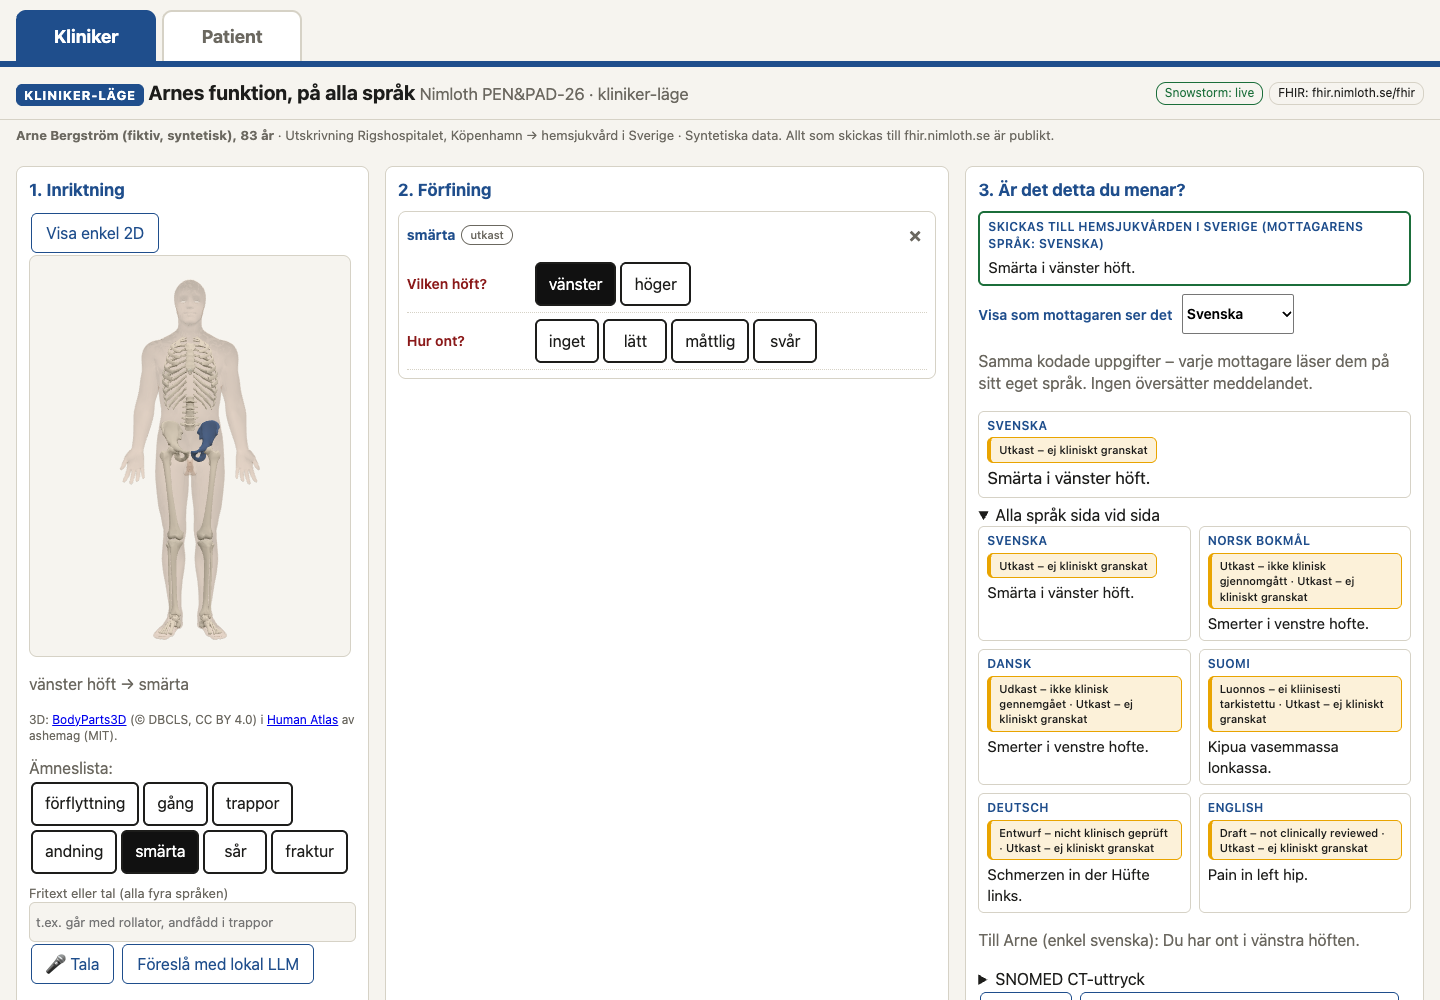
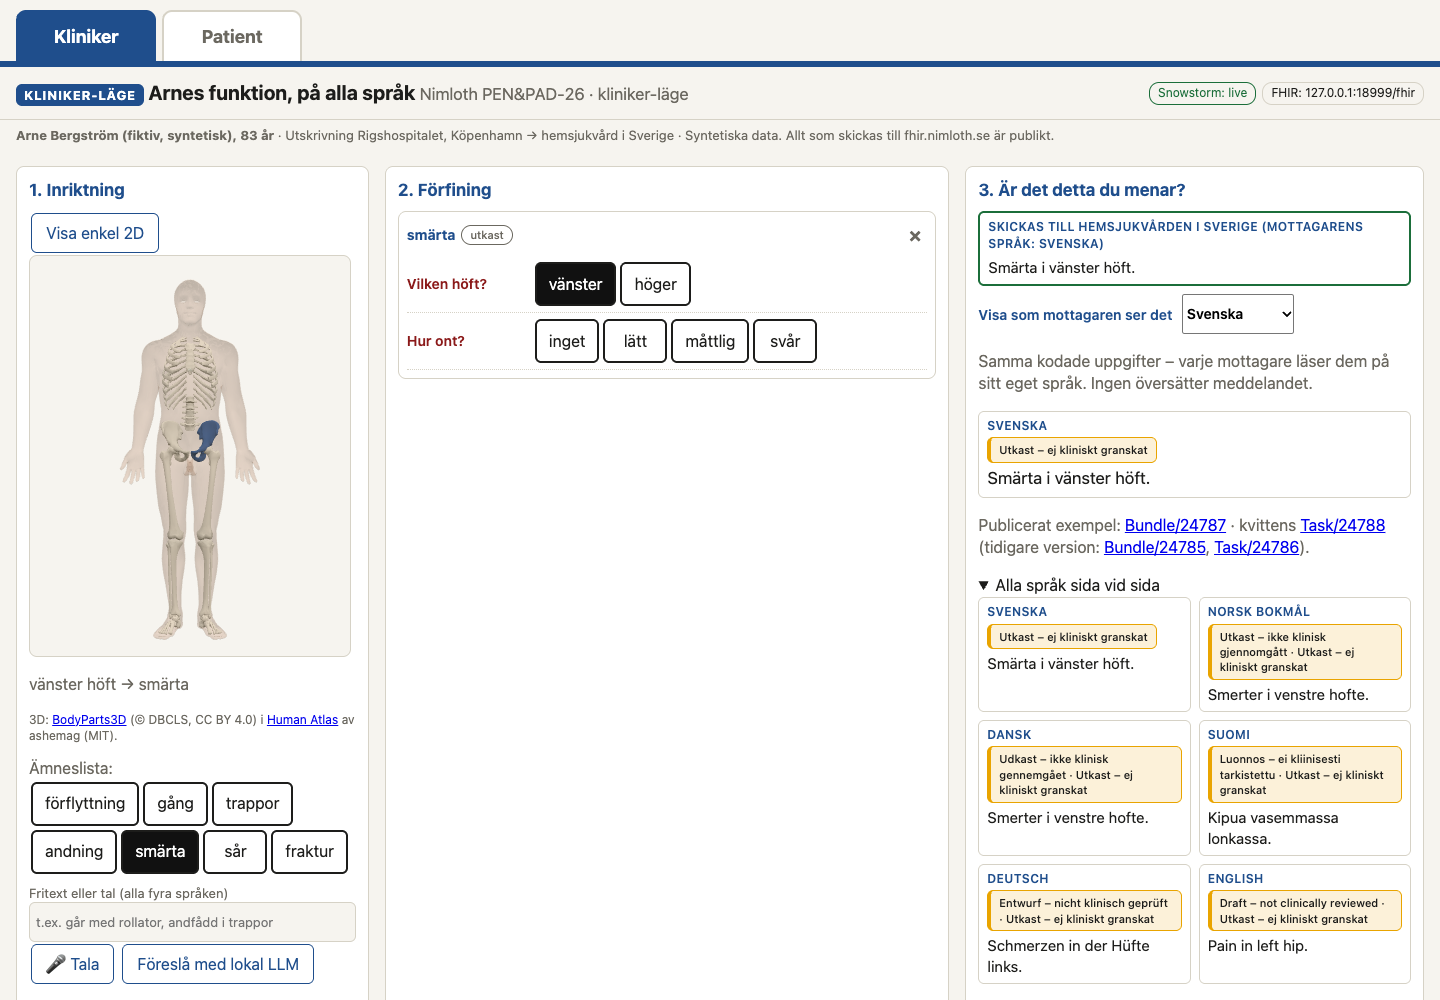
Nimloth PEN&PAD-26 v0.5: new EPS Bundle/24787 + Task/24788, finding on the EPS functional status section, 2D default for clinicians, actor test, screenshots

Changed region(s): [[0.6562, 0.496, 1.0, 1.0], [0.875, 0.062, 0.9688, 0.093], [0.8438, 0.093, 0.875, 0.124]]

diff --git a/challenge/nimloth-penpad26/readme.md b/challenge/nimloth-penpad26/readme.md
@@ -1,22 +1,33 @@
 # Arne's function, in any language — PEN&PAD on the Arne scenario
-Nordic Hackathon 2026, PEN&PAD-26 bonus track · Nimloth (Anders Carlius)
+Nordic Hackathon 2026, PEN&PAD-26 bonus track · Nimloth
 
-**Live demo:** https://penpad.nimloth.se (clinician mode) · https://penpad.nimloth.se/patient/ (patient mode). The demo is open until 2026-11-26 (rate-limited); after that it is behind Cloudflare Access again and reviewers are invited by e-mail on request.
-**Contact:** TODO(Anders): GitHub handle or contact page
+**Live demo:** https://penpad.nimloth.se (clinician mode) · https://penpad.nimloth.se/patient/ (patient mode). Open until 2026-11-26 (rate-limited); after that it is behind Cloudflare Access again and reviewers are invited by e-mail on request.
+**Contact:** Anders Carlius, Northfactor AB — [e-post fylls i av Anders]
 
 ## The gap we aimed at
 Arne (83, fictional) breaks his hip on the stairs in Copenhagen and is discharged from a Danish hospital to home care in Sweden. The organisers' medical comments name three gaps: **functional status is missing and nobody notices**, **his son ends up as the interpreter**, and **nobody confirms the hand-over**.
 
 We used the same coded record for both sides of the border:
-- **Clinician mode** (discharge, Rigshospitalet) follows the track's three steps. *Orientation:* body map (hip, leg, chest), topic list (transfer, walking, stairs, breathing, pain, wound), or free text / speech. *Refinement:* only follow-ups that make sense, as short questions (fracture → left or right? operated? · walking → aid? how far? · breathing → breathless at rest, walking or stairs?). *Confirmation:* "Is this what you meant?" as a live sentence.
-- **Patient mode** (at home in Sweden): plain Swedish and big buttons, plus a **3D body** to point at (where it hurts, where the leg ulcer is). Both modes open on the 3D body; Anders changed this after trying the demo, because the 2D figure felt too crude. For speed, a simple 2D map is one click away ("Visa enkel 2D"), and the topic list stays next to it, so a clinician never has to rotate a model to reach the right form (Rector: "exhaustive is the enemy of the useful"). Both modes use the same component, geometry, FMA→SNOMED table and refinement engine. The body turns slowly (one revolution per ~60 s), stops while the user points at or drags it, resumes after 5 s, and does not move at all under `prefers-reduced-motion`. A list next to the 3D view does the same thing, and replaces it when WebGL or the geometry is missing. Arne answers himself, or his son does it for him. The result is saved as a **draft marked patient-reported**, with "reported by: patient / relative". The home-care nurse opens the draft in clinician mode, refines it and confirms it. We show provenance; we do not try to solve proxy consent.
+- **Clinician mode** (discharge, Rigshospitalet) follows the track's three steps. *Orientation:* 2D body map (hip, leg, chest), topic list (transfer, walking, stairs, breathing, pain, wound), or free text / speech. *Refinement:* only follow-ups that make sense, as short questions (fracture → left or right? operated? · walking → aid? how far? · breathing → breathless at rest, walking or stairs?). *Confirmation:* "Is this what you meant?" as a live sentence.
+- **Patient mode** (at home in Sweden): plain Swedish, big buttons and a **3D body** to point at (where it hurts, where the leg ulcer is), with the same choices as a list next to it. Arne answers himself, or his son does it for him. The result is saved as a **draft marked patient-reported**, with "reported by: patient / relative". The home-care nurse opens the draft in clinician mode, refines it and confirms it. We show provenance; we do not try to solve proxy consent.
+
+## Design choice: 3D only by default for the patient
+3D is the default only in patient mode. For clinicians, a list/2D map is faster — 'exhaustive is the enemy of the useful' (Rector, Part 2). We'd like to test this with the actor test.
+
+Clinicians can switch on the same 3D view ("Visa i 3D"; the choice is remembered in the browser). Both modes use the same component, geometry, FMA→SNOMED table and refinement engine. The body turns slowly (one revolution per ~60 s), stops while the user points at or drags it, and does not move at all under `prefers-reduced-motion`. If WebGL or the geometry is missing, the list/2D map takes over.
 
 ## Three things worth looking at
 1. **The track's three steps in both modes**: orientation, refinement and confirmation.
 2. **The sentence generator removes the need for an interpreting son.** One coded entry is rendered deterministically in **Swedish, Norwegian (bokmål), Danish, Finnish, German and English**, plus plain Swedish for Arne. The templates are hand-written and visible (`generator/templates/{sv,sv-enkel,nb,da,fi,de,en}.yaml`). No LLM generates text. A concept without a template is shown as SNOMED term + code + "no translation"; it never fails silently.
    - sv: *Opererad fraktur på vänster lårbenshals. Går med rollator inomhus cirka 10 meter. Klarar inte trappor. Andfådd vid gång.*
    - da: *Opereret fraktur af venstre lårbenshals. Går med rollator indendørs ca. 10 meter. Kan ikke gå på trapper. Åndenød ved gang.*
-3. **Functional status lands in an EPS document, with the validation result.** The functional-status findings become `Condition`s in the EPS section *Functional status* (LOINC 47420-5, read from `composition-eu-eps` 1.0.0-ballot, which allows Condition / ClinicalImpression / DocumentReference there). They are added to a copy of the hackathon's Arne EPS bundle; the original is never overwritten. The copy is published as [`Bundle/24785`](https://fhir.nimloth.se/fhir/Bundle/24785) (identifier `nimloth-eps-arne-penpad`) and validates against `bundle-eu-eps` 1.0.0-ballot (matchbox) with **0 errors** (the original fixture has 0 errors / 118 warnings; ours 127, the extra ones are an unavailable eHDSI value set). A **receipt button** ("Mottaget och läst") writes a FHIR `Task` with status *completed* ([`Task/24786`](https://fhir.nimloth.se/fhir/Task/24786), focus `Bundle/24785`): a sent document is not a confirmed hand-over.
+3. **Functional status lands in an EPS document, with the validation result.** The findings become `Condition`s in the EPS section *Functional status* (LOINC 47420-5), added to a copy of the hackathon's Arne EPS bundle; the original is never overwritten.
+   - Published: [`Bundle/24787`](https://fhir.nimloth.se/fhir/Bundle/24787) (identifier `nimloth-eps-arne-penpad`, 9 sections; the Composition narrative is generated from `Composition.section`, so no section can be missing from it). [`Bundle/24785`](https://fhir.nimloth.se/fhir/Bundle/24785) is an earlier version whose Composition narrative still lacked the new section.
+   - Validation against `bundle-eu-eps` 1.0.0-ballot with the Swedish base IG (matchbox): **0 errors**, 127 warnings (the original fixture: 0 errors, 118 warnings; the extra warnings are an eHDSI value set the validator cannot resolve). `$validate` on fhir.nimloth.se, which has neither the EPS nor the Swedish base IG loaded, reports 4 errors — the same 4 "profile not found" errors (SEBasePatient, SEBaseOrganization, SEBasePractitioner, SEBasePractitionerRole) that the unchanged original gets there.
+   - A **receipt button** ("Mottaget och läst") writes a FHIR `Task` with status *completed*: [`Task/24788`](https://fhir.nimloth.se/fhir/Task/24788), focus `Bundle/24787` ([`Task/24786`](https://fhir.nimloth.se/fhir/Task/24786) belongs to the earlier version). A sent document is not a confirmed hand-over.
+
+## Finding: the gap is also in the standard
+EPS 1.0.0-ballot lets the *Functional status* section reference only `Condition`, `ClinicalImpression` and `DocumentReference` (`Composition.section:sectionFunctionalStatus.entry`, targetProfile; named slices `disability` → condition-eu-core and `functionalAssessment` → ClinicalImpression). An `Observation` — for example a scored assessment such as Barthel, or "walks 10 m with a rollator" as a measurement — cannot be placed there. We therefore sent Arne's functional status as Conditions. Exact excerpt and source: [eps-functional-status-finding.md](eps-functional-status-finding.md).
 
 ## Send codes, render locally
 Sending and viewing are two different things. What goes to Swedish home care is the **coded record** (openEHR composition, FHIR resources, the receipt) plus one narrative in the **receiver's** language, Swedish. The receiver decides the language; nobody picks it from a menu. The drop-down **"Visa som mottagaren ser det"** only shows the same coded record rendered in another language, so a Danish, Norwegian, Finnish or German reader sees what *they* would read. Switching it sends nothing and changes nothing (tested: `test/i18n.mjs`). Nobody translates the message; each receiver reads the codes in their own language.
@@ -29,38 +40,44 @@ Finnish needs case endings that depend on the body part ("vasemmassa lonkassa", 
 | Rector (interviews part 2 and 4) | What we built for Arne |
 |---|---|
 | Separate the concept model, the information model and inference; coordinate, don't merge | SNOMED CT (Snowstorm, Swedish edition) sanctions what can be said; openEHR (EHRbase, template `nimloth_penpad26_symptom.v0`) stores it; FHIR R4 / EPS carries it across the border |
-| The concept model *sanctions*: query it, don't invent concepts | Every option is checked at runtime: ECL membership, or the MRCM attribute range (laterality, severity). Unsanctioned options are dropped, or shown dotted when Snowstorm is down |
+| The concept model *sanctions*: query it, don't invent concepts | Every option is checked at runtime: ECL membership, or the MRCM attribute range (laterality, severity). Unsanctioned options are dropped, or shown dotted when Snowstorm is down. All 43 codes used are active International concepts (audited) |
 | Assemble forms from fragments hung on the concept model | `model/arne-scenario.json` holds the fragments (topics, questions, candidate codes); no form rows are hard-coded in the UI |
 | Big toggle buttons, a visible "more", no death by a thousand clicks | Big toggles, at most three short questions per topic, one click to undo |
-| "Is this what you meant?": show back a processed result, easy to correct | Live sentence (six languages + plain Swedish) and SNOMED CT expression on every click; optional local LLM (on our own box, never the cloud) may only pick among offered values (JSON schema) and its picks are marked until the clinician accepts them |
+| "Is this what you meant?": show back a processed result, easy to correct | Live sentence (six languages + plain Swedish) and SNOMED CT expression on every click; for free text, an optional local LLM (on our own box, never the cloud) may only pick among offered values (JSON schema), and its picks are marked until the clinician accepts them |
 | Different language for clinicians and patients | `sv` vs `sv-enkel` from the same record; patient mode in plain Swedish |
 | Be tolerant of broken parts | Snowstorm down → offline snapshot or unsanctioned + warning; EHRbase down → queued in the browser, "ej sparad"; FHIR down → resource shown, "ej skickad". Tested by pointing each at a wrong URL |
-| Show that options exist; let the user turn away at any time | Patient points on a 3D body (BodyParts3D meshes); a hand-written FMA→SNOMED table (`mapping/fma-to-snomed-arne.yaml`, codes confirmed in Snowstorm, laterality as its own field) turns the tap into a site; unknown meshes resolve to the nearest listed region or "unknown place – choose in the list", never a guessed code |
+| Show that options exist; let the user turn away at any time | The patient points on a 3D body (BodyParts3D meshes); a hand-written FMA→SNOMED table (laterality as its own field) turns the tap into a site; unknown meshes resolve to the nearest listed region or "unknown place – choose in the list", never a guessed code |
 | Cheap cardboard prototypes first | The engine was first built against recorded Snowstorm fixtures (the Clinergy thumb-pain walkthrough is kept as a regression test) |
 
 ## The actor test
-TODO(Anders): keep the actor-test section from the v0.1 draft (Rector, part 2: was the clinician attending to the patient or to the computer?).
+Rector's test (Part 2) is simple: put an actor in the patient's chair and afterwards ask whether the doctor was attending to *them* or to the computer. We would like to run it on Arne's discharge conversation twice, with the same actor and the same clinician:
+1. **List**: the clinician uses the topic list and short questions (2D map, no free text).
+2. **Free text + local LLM**: the clinician talks or types freely, and the local model proposes the fields, which the clinician confirms.
+
+After each run we ask "Arne" one question — *was the doctor paying attention to you or to the screen?* — and time how long it took to reach a confirmed sentence. The same test should decide whether 3D belongs in clinician mode at all. Erik and Daniel: we would be glad to run this with you, in person or remotely, before or after the hackathon.
 
 ## Honest limitations
-- FMA→SNOMED is a hand-written table for this one scenario (hip, thigh, lower leg, foot, chest, lumbar back), not a general mapping. 3D is the default in both modes; we have not run the actor test on whether it slows a clinician down, which is why the 2D map is one click away.
-- All language templates are hand-written for this one scenario and marked `review_status: draft_unreviewed`; the view shows "Utkast – ej kliniskt granskat" (translated, with the Swedish text next to it). None has been reviewed by a native speaker yet. They are not a general translator.
-- Danish SNOMED CT terms are not loaded in our Snowstorm (only the international and Swedish editions), so the Danish text comes from our templates only.
+- FMA→SNOMED is a hand-written table for this one scenario (hip, thigh, lower leg, foot, chest, lumbar back), not a general mapping.
+- Danish text comes from our own templates: Danish SNOMED CT terms are not loaded in our Snowstorm (only the International and Swedish editions).
+- All language templates are marked `review_status: draft_unreviewed` and the view says so ("Utkast – ej kliniskt granskat", translated, with the Swedish text next to it); no native speaker has reviewed them yet.
+- The openEHR template `nimloth_penpad26_symptom.v0` (encounter → story → symptom_sign + anatomical_location, plus exam) was generated for this demo from CKM archetypes and has not been reviewed in CKM; a validated functional-status template (e.g. Barthel) would be better.
+- LLM suggestions are used only for free text, run locally on CPU and take about a minute; the LLM never writes the sentences.
 - Proxy consent for relatives is not solved; we only show provenance.
-- openEHR uses a small template generated for the demo (`nimloth_penpad26_symptom.v0`: encounter → story → symptom_sign + anatomical_location, plus exam), pruned from CKM archetypes; a validated functional-status template (e.g. Barthel) would be better.
-- Local LLM suggestions run on CPU and take about a minute.
 - EHDS requirements apply from 2029–2031; this is a prototype on synthetic data (Arne is fictional).
 
 ## 3D model attribution
-The 3D body in patient mode uses **BodyParts3D 4.0** (© The Database Center for Life Science, [CC BY 4.0](https://creativecommons.org/licenses/by/4.0/), https://dbarchive.biosciencedbc.jp/en/bodyparts3d/) as packaged in **[Human Atlas](https://github.com/ashemag/human-atlas) by ashemag (MIT)**. We load only 64 skeleton meshes plus the skin (1.6 MB gzip instead of ~33 MB); meshes are copied unchanged. Human Atlas itself is not part of this pull request; we link to it.
+The 3D body uses **BodyParts3D 4.0** (© The Database Center for Life Science, [CC BY 4.0](https://creativecommons.org/licenses/by/4.0/), https://dbarchive.biosciencedbc.jp/en/bodyparts3d/lic.html) as packaged in **[Human Atlas](https://github.com/ashemag/human-atlas) by ashemag (MIT)**. We load only 64 skeleton meshes plus the skin (1.6 MB gzip instead of ~33 MB); meshes are copied unchanged. Human Atlas itself is not part of this pull request; we link to it.
 
 ## Thanks
-To the PEN&PAD revival team for the [Clinergy extractor and notes](https://pen-pad-revival.github.io/docs/clinergy/) and the [thumb-pain walkthrough](https://pen-pad-revival.github.io/docs/clinergy-thumb-pain-demo/), and to the Nordic Hackathon organisers for the Arne scenario. We built on the ideas; we did not copy code or content from the Clinergy installation.
+To the PEN&PAD revival team for the [Clinergy extractor and notes](https://pen-pad-revival.github.io/docs/clinergy/) and the [thumb-pain proof of concept / walkthrough](https://pen-pad-revival.github.io/docs/clinergy-thumb-pain-demo/), and to the Nordic Hackathon organisers for the Arne scenario. We built on the ideas; we did not copy code or content from the Clinergy installation.
 
 ## Screenshots
+All screenshots contain synthetic data only.
+
 | | |
 |---|---|
-| ![Orientation](01-inriktning.png) Orientation: body map + topic list | ![Refinement](02-forfining.png) Refinement as short questions |
-| ![Six languages](03-sex-sprak.png) Sent in Swedish; the same record viewed in six languages, review status visible | ![EPS validation](04-eps-validering.png) openEHR saved, EPS validated |
-| ![Receipt](06-kvittens.png) Published EPS + "Mottaget och läst" receipt | |
-| ![Clinician 3D](08-kliniker-3d.png) Clinician mode (3D by default, mode switcher on top): left hip → pain card, side pre-filled | |
+| ![Orientation](01-inriktning.png) Clinician orientation: 2D body map + topic list (default) | ![Refinement](02-forfining.png) Refinement as short questions |
+| ![Six languages](03-sex-sprak.png) Sent in Swedish; the same record viewed in six languages, review status visible | ![Save](04-eps-validering.png) Save flow: openEHR saved, EPS validated (local rehearsal against a stub FHIR endpoint — the real publication is shown in 09/10) |
+| ![Receipt UI](06-kvittens.png) Receipt button in the UI (local rehearsal, stub FHIR) | ![Clinician 3D](08-kliniker-3d.png) Clinician mode with "Visa i 3D" on: left hip → pain card, side pre-filled |
+| ![Published EPS](09-eps-funktionsstatus.png) Published `Bundle/24787`: Functional status section and generated Composition narrative | ![Published receipt](10-kvittens-task.png) Published `Task/24788` (completed, focus `Bundle/24787`) |
 | ![Patient mode](05-patient-lage.png) Patient mode (relative answering) | ![3D body](07-patient-3d-hoft.png) Arne points at his left hip in 3D → "Du har ont i vänstra höften." / "Smerter i venstre hofte." |

diff --git a/challenge/nimloth-penpad26/eps-functional-status-finding.md b/challenge/nimloth-penpad26/eps-functional-status-finding.md
@@ -1,0 +1,28 @@
+# Finding: EPS 1.0.0-ballot does not allow Observation in the Functional status section
+
+Source (verified 2026-11-19): package `hl7.fhir.eu.eps#1.0.0-ballot` from packages.fhir.org,
+file `package/StructureDefinition-composition-eu-eps.json` (sha256 prefix `d10ea08a6520efc0`),
+canonical `http://hl7.eu/fhir/eps/StructureDefinition/composition-eu-eps` version `1.0.0-ballot`, snapshot.
+This is the same package our local validator (matchbox, `hl7.fhir.eu.eps` `1.0.0-ballot`) loads.
+
+Slice `Composition.section:sectionFunctionalStatus` — "EPS Functional Status", cardinality 0..1,
+`code` pattern LOINC `47420-5`.
+
+Element `Composition.section:sectionFunctionalStatus.entry` (0..*), short:
+"Optional entry used to represent disabilities and functional assessments", type `Reference` with
+`targetProfile`:
+- `http://hl7.org/fhir/StructureDefinition/Condition`
+- `http://hl7.org/fhir/StructureDefinition/ClinicalImpression`
+- `http://hl7.org/fhir/StructureDefinition/DocumentReference`
+
+Slicing `$this.resolve()` by type, rules `open`, with named slices
+`entry:disability` → `condition-eu-core` and `entry:functionalAssessment` → `ClinicalImpression`.
+The open slicing does not widen the element's own `targetProfile`: an `Observation` (e.g. a scored
+functional assessment such as Barthel) cannot be referenced from this section.
+
+For comparison, `sectionResults.entry` allows Observation, DiagnosticReport, DocumentReference and
+`sectionVitalSigns.entry` allows Observation, DocumentReference.
+
+Consequence for PEN&PAD-26: Arne's functional status is sent as `Condition` resources
+(categorised with 47420-5) referenced from section 47420-5. Measured functional scores would have to
+go elsewhere (e.g. Results) or be wrapped in a ClinicalImpression — a gap worth raising with the EPS authors.
